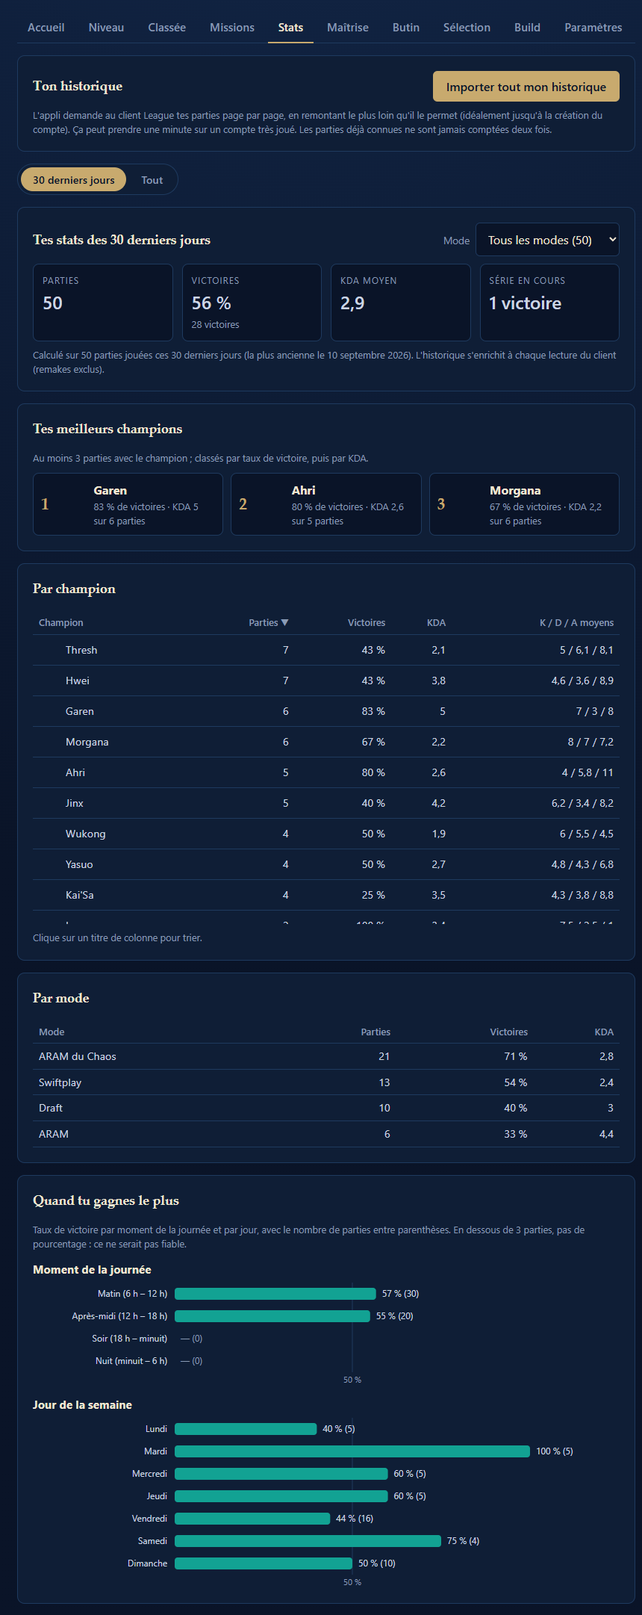
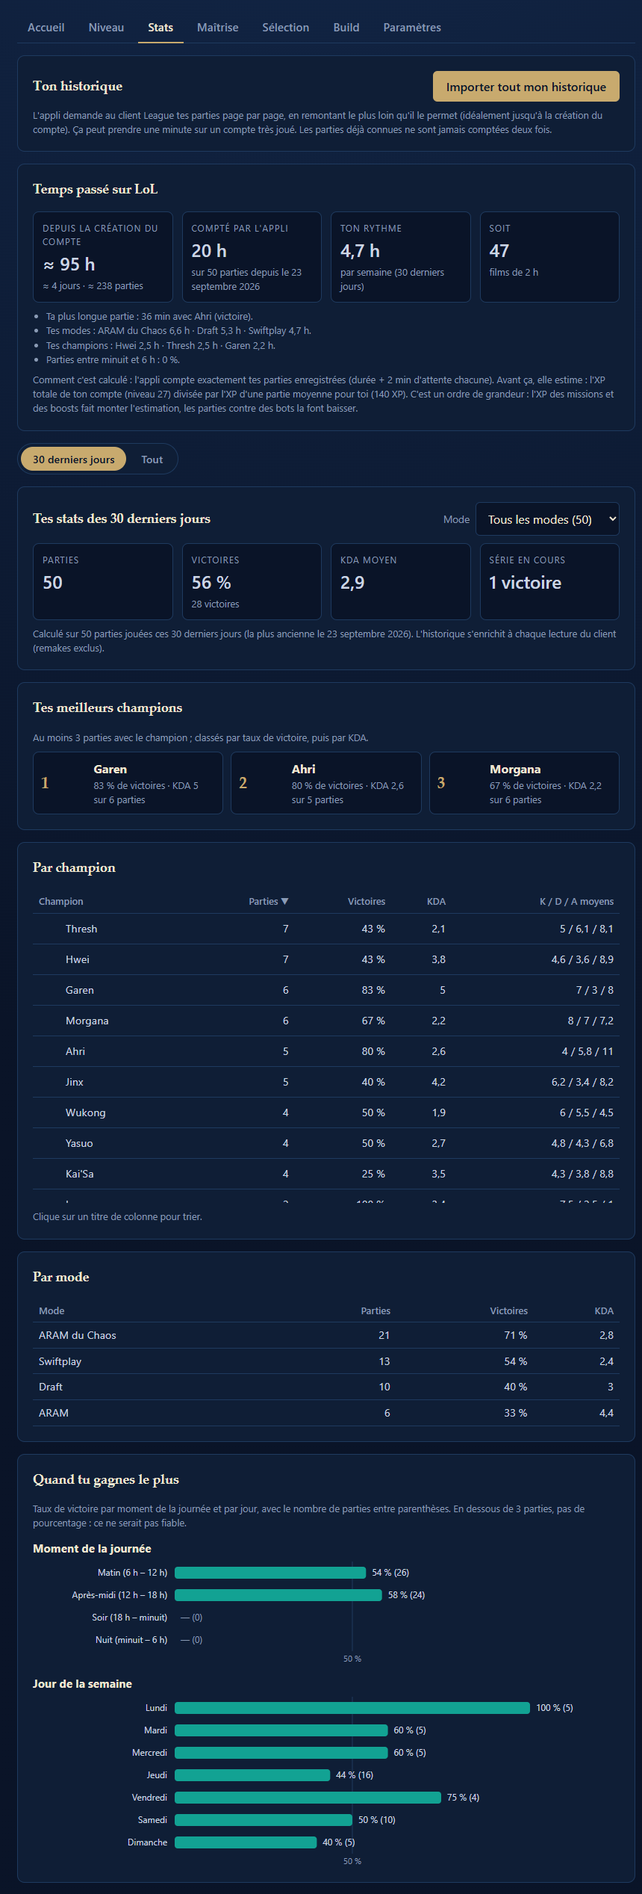
README refait pour la 1.3.1 : présentation, onglets, fonctionnalités, captures à jour ; lien « Réglages » de la session retiré

diff --git a/src/index.html b/src/index.html
@@ -71,7 +71,6 @@
                 <h2 id="titreSession">Ta session</h2>
                 <p class="session-depuis" id="sessionDepuis"></p>
               </div>
-              <button type="button" class="lien" data-vers="parametres">Réglages</button>
             </div>
             <p id="sessionVide" class="aide"></p>
             <div id="sessionContenu" class="tuiles tuiles-session" hidden>

diff --git a/README.md b/README.md
@@ -1,25 +1,39 @@
 # LoL Companion
 
-Appli de bureau, compagnon de **League of Legends** : elle lit ton compte directement dans le client lancé sur ton PC
-(sans clé API, sans Internet) pour suivre ton niveau et ta progression, ta session de jeu, tes stats par champion et ta
-maîtrise.
+**Compagnon de bureau pour League of Legends** (Windows, Mac en bêta). Il lit ton compte directement dans le client
+lancé sur ton PC, sans clé API ni compte à créer : niveau et progression, session du jour, stats par champion,
+maîtrise, conseiller de draft, build automatique (runes, set d'objets, sorts) et aides en jeu.
+
+**[⬇ Télécharger la dernière version](https://github.com/mohamed-ali-akir/lol-companion/releases/latest)**
+(`LoL-Companion-Setup-x.y.z.exe`) · les versions suivantes s'installent toutes seules.
 
 ![Accueil : bilan de session et résumé](docs/captures/accueil.png)
 
-*Captures faites avec un compte fictif et un faux client League (les icônes des champions sont remplacées par des
-lettres ; avec le vrai client, ce sont les icônes du jeu). Le build de l'onglet Build vient des vraies statistiques
-publiques (Lolalytics, OP.GG).*
+*Captures faites avec un compte fictif et un faux client League (les icônes des champions n'y apparaissent pas ;
+avec le vrai client, ce sont celles du jeu). Le build de l'onglet Build vient des vraies statistiques publiques
+(Lolalytics, OP.GG).*
+
+## En bref
+
+- **Rien à taper** : dès que League est ouvert, l'appli lit ton Riot ID, ton niveau et tes parties, puis se met à jour
+  toute seule après chaque partie. Client fermé, elle affiche tes dernières données.
+- **Toujours là** : l'appli installée se lance avec Windows, réduite près de l'horloge, et te prévient quand League
+  est détecté. La croix cache la fenêtre ; pour quitter : clic droit sur l'icône → Quitter.
+- **Rien d'imposé** : tout ce qui agit sur le client (acceptation, pick/ban, runes, sorts) est **désactivé par
+  défaut** et s'active d'une case.
+- **Respect de ta vie privée** : tes données restent sur ton PC ; les seuls appels à Internet envoient des noms de
+  champions, de postes et de modes, jamais ton Riot ID (voir [Sécurité](#sécurité)).
 
 ## Les onglets
 
 | Onglet | Ce qu'il montre |
 |---|---|
-| **Accueil** | Le bilan de ta session en grand, puis une carte par onglet (niveau, objectif, rythme, stats, temps passé sur LoL, maîtrise, acceptation auto). Chaque carte ouvre l'onglet détaillé |
-| **Niveau** | Le calculateur : parties, heures et jours restants avant ton niveau visé pour 4 modes, et ta courbe de progression |
-| **Stats** | Taux de victoire et KDA par champion et par mode, meilleurs champions, moments où tu gagnes le plus, sur 30 jours ou depuis le début ; temps passé sur LoL depuis la création du compte |
-| **Maîtrise** | Les champions les plus proches du niveau de maîtrise suivant, tes plus joués, la liste complète |
-| **Sélection** | Conseiller de draft : les 5 meilleurs champions pour la draft en cours, avec la raison (matchups, synergies). Pick et ban automatiques (désactivés par défaut) : 3 champions et 3 bans dans l'ordre, par rôle |
-| **Build** | Build de ton champion d'après les statistiques de Lolalytics et d'OP.GG (3 choix par emplacement avec taux de victoire et de sélection, runes, sorts), page de runes et set d'objets créés automatiquement, consultation du build de n'importe quel champion ; en jeu : stats des augments (ARAM Mayhem) et chronos des sorts adverses (Faille) |
+| **Accueil** | Le bilan de ta session (parties, V/D, XP gagnée, temps de jeu, meilleur champion), puis une carte par sujet : niveau, objectif, rythme, acceptation auto, stats, temps passé sur LoL, maîtrise. Chaque carte ouvre l'onglet détaillé |
+| **Niveau** | Le calculateur : parties, heures et jours restants avant ton niveau visé, pour 4 modes, et ta courbe de progression |
+| **Stats** | Taux de victoire et KDA par champion et par mode, meilleurs champions, moments où tu gagnes le plus (30 jours ou tout), import de tout ton historique, temps passé sur LoL depuis la création du compte |
+| **Maîtrise** | Les champions les plus proches du niveau suivant (points et marques manquants, ≈ parties restantes), tes plus joués, la liste complète |
+| **Sélection** | Conseiller de draft (les 5 meilleurs champions pour la draft en cours, avec la raison) et pick/ban automatiques par rôle |
+| **Build** | Build de ton champion (Lolalytics + OP.GG) : page de runes, set d'objets et sorts créés pour toi, set « Champion Rank 1 », chronos des sorts adverses, consultation du build de n'importe quel champion |
 | **Paramètres** | Accepter automatiquement les parties, mises à jour, dossier du jeu |
 
 <details>
@@ -51,120 +65,84 @@ publiques (Lolalytics, OP.GG).*
 
 </details>
 
-## Fonctionnalités
+## Fonctionnalités en détail
 
-**Tout vient du client, sans bouton.** Dès que le client est détecté (au lancement de l'appli ou quand tu ouvres League),
-l'appli lit ton Riot ID, ton niveau et ta progression : il n'y a rien à taper ni à cliquer.
-Elle écoute ensuite le client en direct et se met à jour toute seule après chaque partie (« +115 XP environ »).
-Client fermé, elle affiche ton dernier compte enregistré (« Données du 30/09 à 18:05 »).
-
+### Suivi du compte
 - **Bilan de session** (Accueil) : parties, victoires / défaites, XP gagnée (estimée, hors missions), temps de jeu et
-  meilleur champion de la session. La session commence à ta première partie du jour (une soirée sans vraie pause
-  continue après minuit). Les alertes de session (pause, temps de jeu, notif « diable ») ont été retirées le 17/10/2026
+  meilleur champion. La session commence à ta première partie du jour ; une soirée sans vraie pause (moins de
+  45 min entre deux parties) continue après minuit.
 - **Niveau** : niveau visé (30 proposé pour la classée, sinon le prochain palier de 25) et temps de jeu par jour.
   Calcul pour ARAM du Chaos, ARAM, Swiftplay et Draft avec **ta** durée moyenne et **ton** taux de victoire (valeurs
   moyennes si tu n'as pas assez de parties), le mode le plus rapide mis en avant, 2 min d'attente comptées par partie,
   boosts d'XP (l'XP des missions n'est pas comptée). Courbe de ton XP dans le temps, rythme réel sur 7 jours et date
-  estimée. Fonctionne au-delà du niveau 50
+  estimée. Fonctionne au-delà du niveau 50.
 - **Stats** : par champion (tableau triable) et par mode, 3 meilleurs champions, taux de victoire selon le moment de
   la journée et le jour de la semaine, série en cours. Périodes **30 derniers jours** et **Tout**. Les parties sont
-  gardées sur ton PC, et **« Importer tout mon historique »** remonte l'historique du client aussi loin qu'il le permet
-- **Temps passé sur LoL** (onglet Stats et carte de l'Accueil, comme wol.gg mais sans clé API ni site extérieur) :
-  le client ne garde qu'une vingtaine de parties et n'a plus de statistiques de carrière (routes `lol-career-stats`
-  absentes, vérifié le 16/10/2026). Le temps est donc :
-  - **compté** sur les parties enregistrées par l'appli : durée exacte + 2 min d'attente par partie (la même valeur
-    que l'onglet Niveau : `ATTENTE_PAR_PARTIE_MIN` dans `src/calculs.js`) ;
-  - **estimé** depuis la création du compte : XP totale du compte (niveau + progression) divisée par l'XP d'une
-    partie moyenne pour toi (ta durée moyenne, ton taux de victoire, formule du wiki). C'est un ordre de grandeur :
-    l'XP des missions et des boosts fait monter l'estimation, les parties contre des bots la font baisser.
-  On affiche le plus grand des deux, en heures et en jours, avec quelques stats amusantes : nombre de films de 2 h,
-  heures par semaine sur 30 jours, plus longue partie, modes et champions où tu as passé le plus de temps, parties
-  entre minuit et 6 h. Fonction `tempsDeJeu` de `src/calculs.js`.
+  gardées sur ton PC, et **« Importer tout mon historique »** remonte l'historique du client aussi loin qu'il le permet.
+- **Temps passé sur LoL** (Stats et Accueil, comme wol.gg mais sans clé API ni site extérieur) : le client ne garde
+  qu'une vingtaine de parties et n'a plus de statistiques de carrière. Le temps est donc **compté** sur les parties
+  enregistrées par l'appli (durée exacte + 2 min d'attente par partie) et **estimé** depuis la création du compte
+  (XP totale divisée par l'XP d'une partie moyenne pour toi : un ordre de grandeur). On affiche le plus grand des
+  deux, avec quelques stats amusantes (films de 2 h, heures par semaine, plus longue partie, modes et champions où tu
+  as passé le plus de temps). Fonction `tempsDeJeu` de `src/calculs.js`.
 - **Maîtrise** : points restants et **marques de maîtrise** manquantes (système de 2024), avec la note à obtenir pour
   en gagner. Estimation « ≈ N parties » à partir de ta moyenne de points par partie sur ce champion, mesurée par
-  l'appli après tes parties. Recherche et tri (par points ou par proximité du niveau suivant)
-- **Acceptation automatique** de la partie trouvée (une seule case, désactivée par défaut) : après 2 s, jamais si tu
-  as déjà répondu, jamais deux fois la même. Notification « Partie trouvée ! » si League n'est pas au premier plan
-- **Conseiller de draft** (onglet Sélection, désactivé par défaut, comme iTero.gg en plus simple) : pendant la
-  sélection, l'appli classe **les champions que tu peux jouer** à ton poste et affiche les 5 meilleurs, mis à jour à
-  chaque champion verrouillé : « Nasus 57,6 % · +3,1 contre Zed · +2,1 contre Yasuo · +0,7 avec Lee Sin ». Le score
-  part du taux de victoire du champion à ton poste (Lolalytics, Émeraude et plus), corrigé par chaque **adversaire**
-  verrouillé (matchup) et chaque **allié** verrouillé (synergie), plus un petit bonus selon **tes** parties sur ce
-  champion (± 2 points au plus). Jamais un champion banni ou déjà pris. Il ne fait que proposer, il ne choisit jamais
-- **Pick et ban automatiques** (onglet Sélection, désactivés par défaut, ⚠ contraires aux règles de Riot : voir
-  Sécurité). Quand c'est **ton** tour, l'appli verrouille ton champion après **10 s** (ban : **5 s**), réglables.
-  3 choix dans l'ordre : si le 1er est banni ou déjà pris, elle prend le 2e, puis le 3e. Une liste par rôle (Haut,
-  Jungle, Milieu, Bas, Support), **pour les picks comme pour les bans**, choisie d'après le rôle attribué en sélection,
-  plus une liste « Par défaut » (partie sans rôles, ou liste du rôle vide ou indisponible). Jamais un champion banni, déjà pris, survolé ou déclaré par un
-  coéquipier. Si tu survoles ou verrouilles un champion toi-même pendant le délai, elle ne fait rien
-- **Build** (onglet Build, chaque option désactivée par défaut, autorisé par Riot comme Blitz ou Porofessor) : quand ton
-  champion est verrouillé (ou attribué en ARAM), l'appli lit les **vraies statistiques** de **Lolalytics** (objets
-  emplacement par emplacement) et d'**OP.GG** (runes, sorts) pour ce champion, ton rôle et le mode (classée/normale et
-  outil d'entraînement avec les stats de classée, ARAM, URF), puis :
-  - compose le build comme Lolalytics : **Départ, Objet 1, Bottes, Objets 2 à 5**, chacun avec **3 choix** (le
-    recommandé + 2 pour t'adapter en partie) ; chaque choix affiche son taux de victoire, sa part des achats, son
-    nombre de parties et la minute d'achat (« ⚠ peu de données » sous 200 parties). Si Lolalytics ne répond pas,
-    le build d'OP.GG prend le relais (objets principaux, bottes, 4e à 6e objet) ;
-  - crée la page de runes « Hwei · Mid · LoL Companion » (champion et poste ; runes d'OP.GG, ou celles **recommandées
-    par Riot** si OP.GG ne répond pas ou si les stats sont désactivées). Si le client refuse ou coupe ce nom (la
-    longueur maximale n'est documentée nulle part), l'appli essaie « Hwei · Mid · LoLC », puis « LoL Companion » ;
-  - choisit tes **sorts d'invocateur** (sa case) : les plus joués d'après OP.GG, en gardant chaque sort sur ta
-    touche habituelle (si Flash est sur F, il y reste). Route du client : `PATCH /lol-champ-select/v1/session/my-selection` ;
-  - crée le set d'objets « LoL Companion - Champion (Rôle) » (toujours, plus de case depuis le 17/10/2026), visible
-    dans la boutique en jeu : un bloc par
-    emplacement avec ses 3 choix, le recommandé en premier. Un seul set « LoL Companion » est gardé (celui du champion
-    actuel) : le client reçoit tous les sets d'un coup et refuse au-delà d'environ 64 Ko (code 413).
-    Il est **sélectionné d'office** dans la boutique. Vu en jeu le 17/10/2026 : avec trois sets aux `sortrank` 10188,
-    10187 et 10186, dans cet ordre, la boutique a pris le **dernier**, qui avait aussi le **plus petit** `sortrank`.
-    Nos sets vont donc en **fin de liste**, dans l'ordre inverse, et le set principal (la famille la plus jouée) est
-    tout à la fin avec le `sortrank` 0.
-  - **set « Champion Rank 1 »** (`rank1.js`, sa propre case, désactivée par défaut) : le
-    build du **meilleur joueur du champion sur ton serveur**, comme les « builds des meilleurs joueurs » de Blitz,
-    Mobalytics ou U.GG, mais sans clé d'API de Riot. L'appli lit le classement du champion sur OP.GG
-    (`lol_list_champion_leaderboard`), qui est trié par **nombre de parties** (le n° 1 d'Ahri était Maître, le n° 5
-    Grand Maître) : elle retrie donc les 10 premiers par **vrai rang** (tier puis LP), puis lit les 20 dernières parties
-    du meilleur (`lol_list_summoner_matches`) et garde celles sur ce champion (à ton poste s'il y en a au moins 3).
-    S'il en a moins de 3, elle passe au suivant (3 joueurs au plus). OP.GG ne donne que l'inventaire de **fin** de
-    partie, pas l'ordre d'achat : les objets finis sont rangés du **plus pris au moins pris** (cœur : la moitié des
-    parties ou plus ; souvent : 20 à 50 % ; parfois), avec ses 2 paires de bottes les plus prises ; le **départ** (qui
-    n'est plus dans l'inventaire en fin de partie) est repris du build général. Le set s'appelle « Ahri Rank 1 » ; le
-    set principal reste sélectionné d'office. Blocs aux titres **courts** (la boutique coupe un titre trop long) :
-    « Départ », « Rank 1 · Grand Maître 2145 LP EUW » (le cœur, avec le rang du joueur, jamais son Riot ID),
-    « Bottes · 67 % des parties », « Souvent », « Parfois ». Pas de taux de victoire : sur une douzaine de parties, il
-    ne veut rien dire. Le classement veut le nom **anglais** du champion (« WUKONG », « DR_MUNDO » ; le nom interne
-    « MONKEYKING » y est refusé, vérifié sur les 250 champions) : il vient de la liste d'OP.GG (`lol_list_champions`).
-    Faille seulement ; environ 6 à 8 s, gardé 3 h en mémoire.
-  - **plusieurs sets pour un champion qui se joue de plusieurs façons** (`familles.js`) : Vi combattant ou
-    létalité / critique, Kai'Sa à l'impact ou AP, Kayn rouge (Rhaast) ou bleu (Assassin de l'ombre)... La page
-    Lolalytics donne les combinaisons des 3 premiers objets réellement construites (`itemSets`). Chaque combinaison est
-    rangée d'après son **premier objet** et ses catégories dans le client (Santé, Coup critique, Pénétration...) ;
-    Kayn est un cas à part (bleu = aucun objet avec de la Santé, rouge = au moins un). On garde les familles qui
-    pèsent au moins 10 % des builds et 300 parties (3 au plus), et seulement les objets construits dans au moins
-    200 parties et 10 % des achats de leur emplacement. Chaque set a ses Objets 1 à 3 propres ; le départ, les
-    bottes et les objets 4 et 5 viennent du build général. Un champion qui ne se joue que d'une façon garde un seul set.
-  Tes pages de runes et tes sets (Porofessor...) ne sont jamais modifiés. Tu peux aussi consulter le build de
-  n'importe quel champion, rôle et mode, sans rien appliquer
-- **Augments ARAM Mayhem en jeu** (toujours actif, sans case depuis le 17/10/2026) : quand les 3 augments sont proposés, l'appli
-  affiche **sous chaque carte, directement sur l'écran du jeu**, son **taux de victoire** (arammayhem.com) : avec **ton
-  champion** si l'augment fait partie de ses meilleurs (« 58 % de victoires · avec ton champion · pris 23 % »), sinon
-  tous champions confondus. La carte au meilleur taux est mise en avant (cadre doré), comme le font Porofessor ou
-  Blitz, sauf égalité (moins de 1 point d'écart) ou augment trop rare (moins de 3 %). Le jeu doit être en mode
-  **« Sans bordure »**. L'appli ne choisit jamais à ta place ([aperçu](docs/captures/apercu-augments.png))
-- **Chronos des sorts d'invocateur adverses** (onglet Build, désactivé par défaut, ⚠ voir Sécurité) : un petit panneau
-  en haut à gauche du jeu avec les 5 adversaires (icône du champion) et leurs 2 sorts. Quand tu vois un adversaire
-  utiliser un sort, **tu cliques dessus** : le compte à rebours démarre (bottes de lucidité visibles comptées, TP
-  déchaînée après 10:00) ; un 2e clic l'annule. Le panneau se **déplace** où tu veux en le glissant par sa poignée
-  (« ⠿ ⠿ ⠿ », en haut du panneau) ; sa place est gardée dans `config.json` en part de l'écran (même endroit à une
-  autre résolution) et ramenée dans l'écran si besoin ; un double-clic sur la poignée le remet en haut à gauche.
-  La même case lance aussi le chrono quand un allié (ou toi) pingue le sort dans le chat (voir plus bas).
-  Le reste de l'écran laisse passer les clics au jeu. Mode « Sans bordure » requis (rappel affiché dans l'onglet Build).
-- **Arrière-plan** : une icône dans la zone de notification de Windows (Ouvrir, Acceptation auto à cocher, Quitter).
-  Plus aucun réglage (décidé le 17/10/2026) : l'appli installée **se lance avec Windows**, réduite dans la zone de
-  notification, et se connecte toute seule dès que League s'ouvre. La croix **cache** la fenêtre au lieu de quitter :
-  la surveillance continue (acceptation auto, notifications, mise à jour après chaque partie), et la première fois une
-  notification l'explique. Notification **« LoL Companion est prêt »** quand League est détecté (avec ce qui est
-  actif : acceptation, pick/ban, build), seulement si la fenêtre est cachée, une fois par lancement de League.
-  Pour arrêter l'appli : clic droit sur l'icône → Quitter. Une seule instance à la fois : relancer l'appli réaffiche la fenêtre déjà ouverte
+  l'appli après tes parties. Recherche et tri (par points ou par proximité du niveau suivant).
+
+### Sélection des champions
+- **Acceptation automatique** (Paramètres, une seule case, désactivée par défaut) : accepte la partie trouvée après
+  2 s, jamais si tu as déjà répondu, jamais deux fois la même. Notification « Partie trouvée ! » si League n'est pas au
+  premier plan.
+- **Conseiller de draft** (Sélection, désactivé par défaut, comme iTero.gg en plus simple) : l'appli classe **les
+  champions que tu peux jouer** à ton poste et affiche les 5 meilleurs, mis à jour à chaque champion verrouillé :
+  « Nasus 57,6 % · +3,1 contre Zed · +2,1 contre Yasuo · +0,7 avec Lee Sin ». Le score part du taux de victoire du
+  champion à ton poste (Lolalytics, Émeraude et plus), corrigé par chaque **adversaire** (matchup) et chaque **allié**
+  (synergie) verrouillés, plus un petit bonus selon **tes** parties sur ce champion (± 2 points au plus). Jamais un
+  champion banni ou déjà pris. Il ne fait que proposer.
+- **Pick et ban automatiques** (Sélection, désactivés par défaut, ⚠ contraires aux règles de Riot : voir
+  [Sécurité](#sécurité)) : quand c'est **ton** tour, l'appli verrouille ton champion après **10 s** (ban : **5 s**),
+  réglables. 3 choix dans l'ordre (si le 1er est banni ou déjà pris, le 2e, puis le 3e), une liste par rôle (Haut,
+  Jungle, Milieu, Bas, Support) **pour les picks comme pour les bans**, plus une liste « Par défaut ». Jamais un
+  champion banni, déjà pris, survolé ou déclaré par un coéquipier ; rien si tu choisis toi-même pendant le délai.
+
+### Build automatique (onglet Build)
+Chaque option est désactivée par défaut ; c'est autorisé par Riot, comme Blitz ou Porofessor. Quand ton champion est
+verrouillé (ou attribué en ARAM), l'appli lit les **vraies statistiques** de **Lolalytics** (objets emplacement par
+emplacement) et d'**OP.GG** (runes, sorts) pour ce champion, ton rôle et le mode, puis :
+- compose le build comme Lolalytics : **Départ, Objet 1, Bottes, Objets 2 à 5**, chacun avec **3 choix** (le
+  recommandé + 2 pour t'adapter), avec taux de victoire, part des achats, nombre de parties et minute d'achat
+  (« ⚠ peu de données » sous 200 parties). Si Lolalytics ne répond pas, le build d'OP.GG prend le relais ;
+- crée la **page de runes** « Hwei · Mid · LoL Companion » (runes d'OP.GG, ou celles recommandées par Riot en secours) ;
+- crée le **set d'objets** « LoL Companion - Champion (Rôle) », visible et sélectionné d'office dans la boutique en
+  jeu ; un champion qui se joue de plusieurs façons (Vi combattant ou létalité, Kayn rouge ou bleu...) a un set par
+  façon (`familles.js`) ;
+- choisit tes **sorts d'invocateur** (sa case) : les plus joués d'après OP.GG, chaque sort gardé sur ta touche
+  habituelle (si Flash est sur F, il y reste) ;
+- ajoute le **set « Champion Rank 1 »** (sa case, `rank1.js`) : le build du meilleur joueur du champion sur ton
+  serveur, d'après le classement d'OP.GG retrié par vrai rang (jamais son Riot ID dans le set).
+
+Tes autres pages de runes et sets (Porofessor...) ne sont jamais modifiés. Tu peux aussi **consulter le build** de
+n'importe quel champion, rôle et mode, sans rien appliquer.
+
+### En jeu
+Le jeu doit être en mode **« Sans bordure »** (Échap → Vidéo → Mode de la fenêtre) : en plein écran, Windows ne
+peut rien afficher par-dessus. L'onglet Build le rappelle.
+- **Augments ARAM Mayhem** (toujours actif) : quand les 3 augments sont proposés, l'appli affiche **sous chaque carte**
+  son **taux de victoire** (arammayhem.com), avec **ton champion** si possible, et met en avant la meilleure carte
+  (cadre doré). Elle ne choisit jamais à ta place ([aperçu](docs/captures/apercu-augments.png)).
+- **Chronos des sorts d'invocateur adverses** (Build, désactivé par défaut, ⚠ voir [Sécurité](#sécurité)) : un petit
+  panneau avec les 5 adversaires et leurs 2 sorts. Quand tu vois un sort utilisé, **tu cliques dessus** : le compte à
+  rebours démarre (bottes de lucidité comptées, TP déchaînée après 10:00) ; un 2e clic l'annule. Le chrono démarre
+  aussi tout seul quand un allié (ou toi) **pingue** le sort dans le chat. Le panneau se déplace en le glissant par sa
+  poignée (« ⠿ ⠿ ⠿ ») ; sa place est gardée ; double-clic sur la poignée pour le remettre en haut à gauche.
+  Jamais les ultimes : Riot les interdit.
+
+### Arrière-plan et mises à jour
+- **Icône près de l'horloge** (Ouvrir, Acceptation auto à cocher, Quitter). L'appli installée **se lance avec
+  Windows**, réduite, et se connecte toute seule dès que League s'ouvre ; notification **« LoL Companion est prêt »**
+  quand League est détecté et que la fenêtre est cachée. Une seule copie tourne à la fois.
+- **Mises à jour automatiques** depuis les Releases GitHub (voir [Mises à jour](#mises-à-jour)) : la nouvelle version
+  se télécharge en arrière-plan, puis le bouton « Vérifier maintenant » devient **« Redémarrer l'appli »**.
 
 ## Installation
 
@@ -339,8 +317,7 @@ inattendu n'est jamais une raison de planter, l'appli affiche ce qu'elle a.
   l'appli compare les points d'un champion avec la lecture précédente et compte les nouvelles parties jouées avec lui
   (« +1 800 points en 2 parties »). Si le client a mis à jour l'un mais pas encore l'autre, elle attend la lecture suivante.
 - **Session** : « aujourd'hui » = parties depuis minuit, plus celles de la veille si tu jouais sans pause de plus de
-  45 min au moment de minuit. Alertes seulement si ta dernière partie date de moins de 45 min (sinon tu as déjà fait
-  une pause), une seule notification par série de défaites.
+  45 min au moment de minuit.
 - **Acceptation automatique** : le ready-check n'a pas d'identifiant, un nouveau commence quand l'état passe à
   « `InProgress` + `playerResponse: None` » (en attente de ta réponse) depuis **n'importe quel** autre état, y compris
   « `InProgress` + `Accepted` » : quand un autre joueur refuse, le client peut enchaîner directement sur la partie
@@ -533,7 +510,7 @@ Tout reste dans `%APPDATA%\lol-level-calculator\` (jamais dans le projet ni dans
 | Fichier | Contenu |
 |---|---|
 | `journal.txt` | Journal de l'appli : connexions au client, parties trouvées, acceptations, erreurs (200 Ko au plus, puis `journal.ancien.txt`) |
-| `config.json` | Dossier du jeu, dernier compte lu, dernier onglet ouvert, réglages de l'acceptation automatique, du conseiller de draft, du pick et du ban automatiques (`selectionAuto` : cases, délais, listes de picks et de bans par rôle), du build (`buildAuto` : stats Lolalytics/OP.GG, runes, set Rank 1, sorts d'invocateur, chronos des sorts), place du panneau des sorts en jeu (`positionSorts`), de la session et de l'arrière-plan |
+| `config.json` | Dossier du jeu, dernier compte lu, dernier onglet ouvert, réglages de l'acceptation automatique, du conseiller de draft, du pick et du ban automatiques (`selectionAuto` : cases, délais, listes de picks et de bans par rôle), du build (`buildAuto` : stats Lolalytics/OP.GG, runes, set Rank 1, sorts d'invocateur, chronos des sorts), place du panneau des sorts en jeu (`positionSorts`), case des mises à jour (`arrierePlan.majAuto`) |
 | `parties.json` | Tes parties (Stats, session, maîtrise) : `{ riotId, id, date, dureeS, file, championId, championNom, victoire, kills, deaths, assists }`, sans doublons, 25 000 au maximum par compte |
 | `progression.json` | Les points de ta courbe : `{ date, riotId, niveau, progression, xpTotale }`, 1 000 au maximum par compte |
 | `maitrise.json` | Dernière lecture des points de maîtrise de chaque champion et échantillons « N points en M parties » (30 au maximum par champion) |
